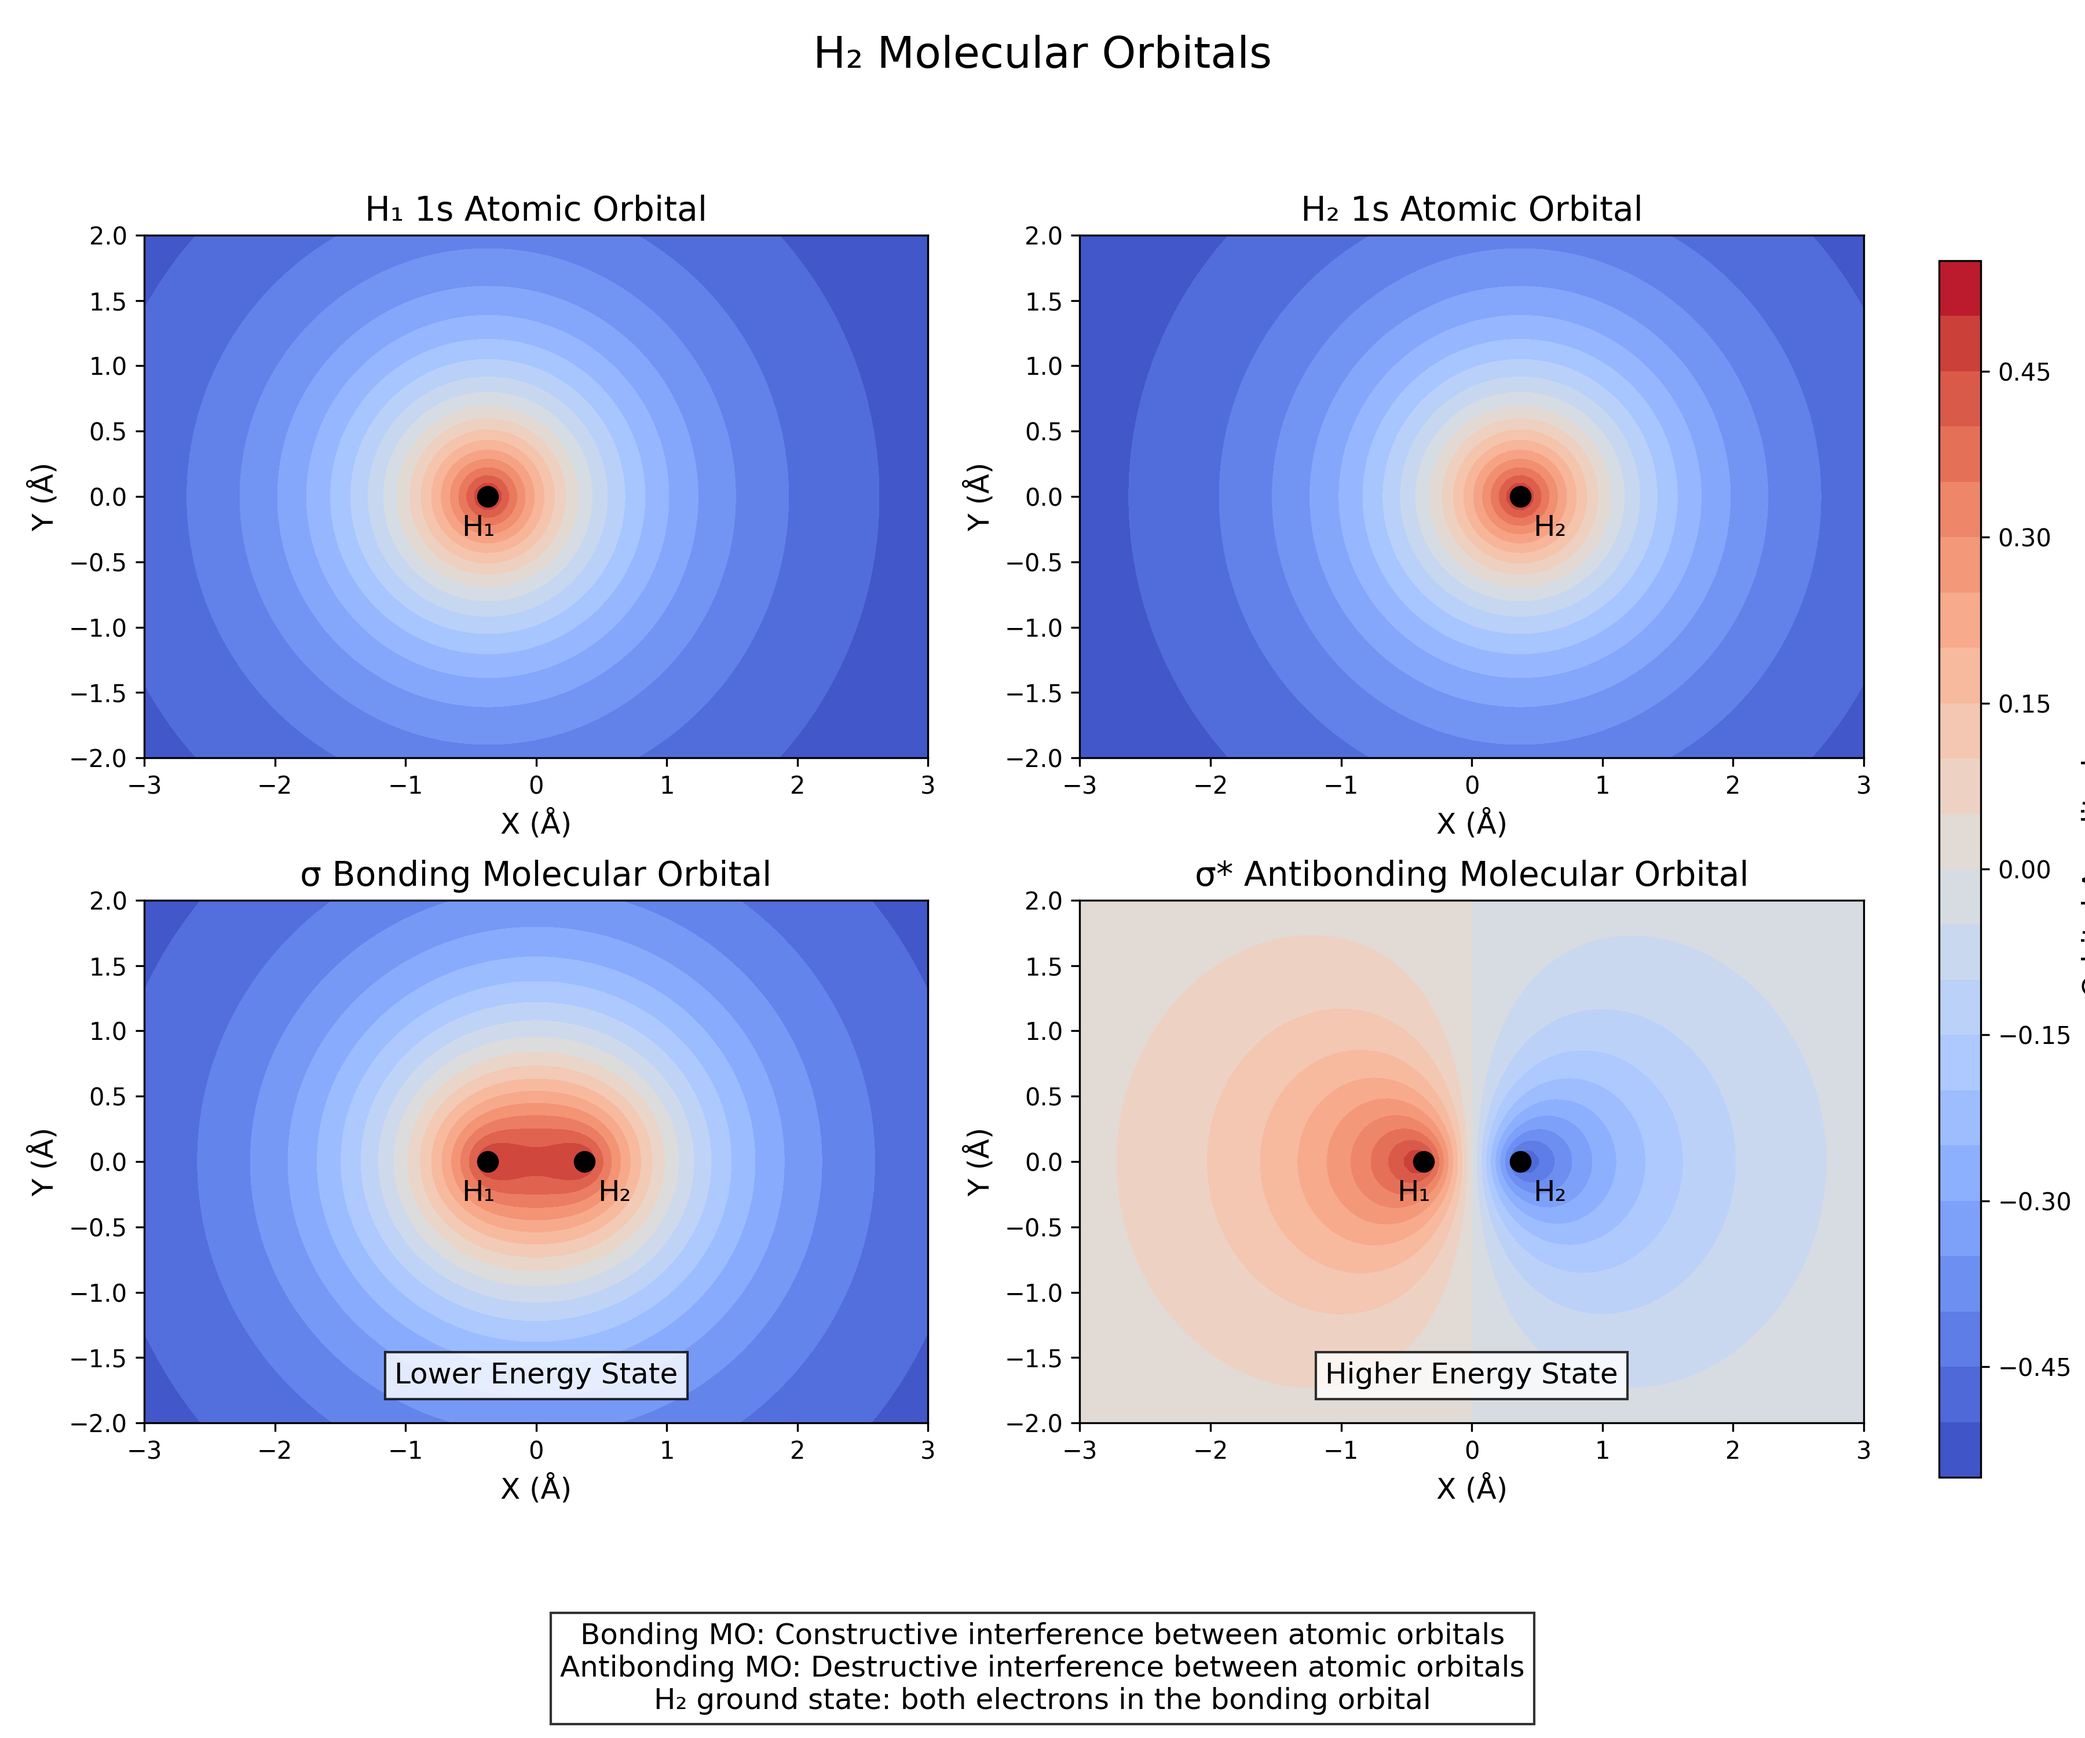
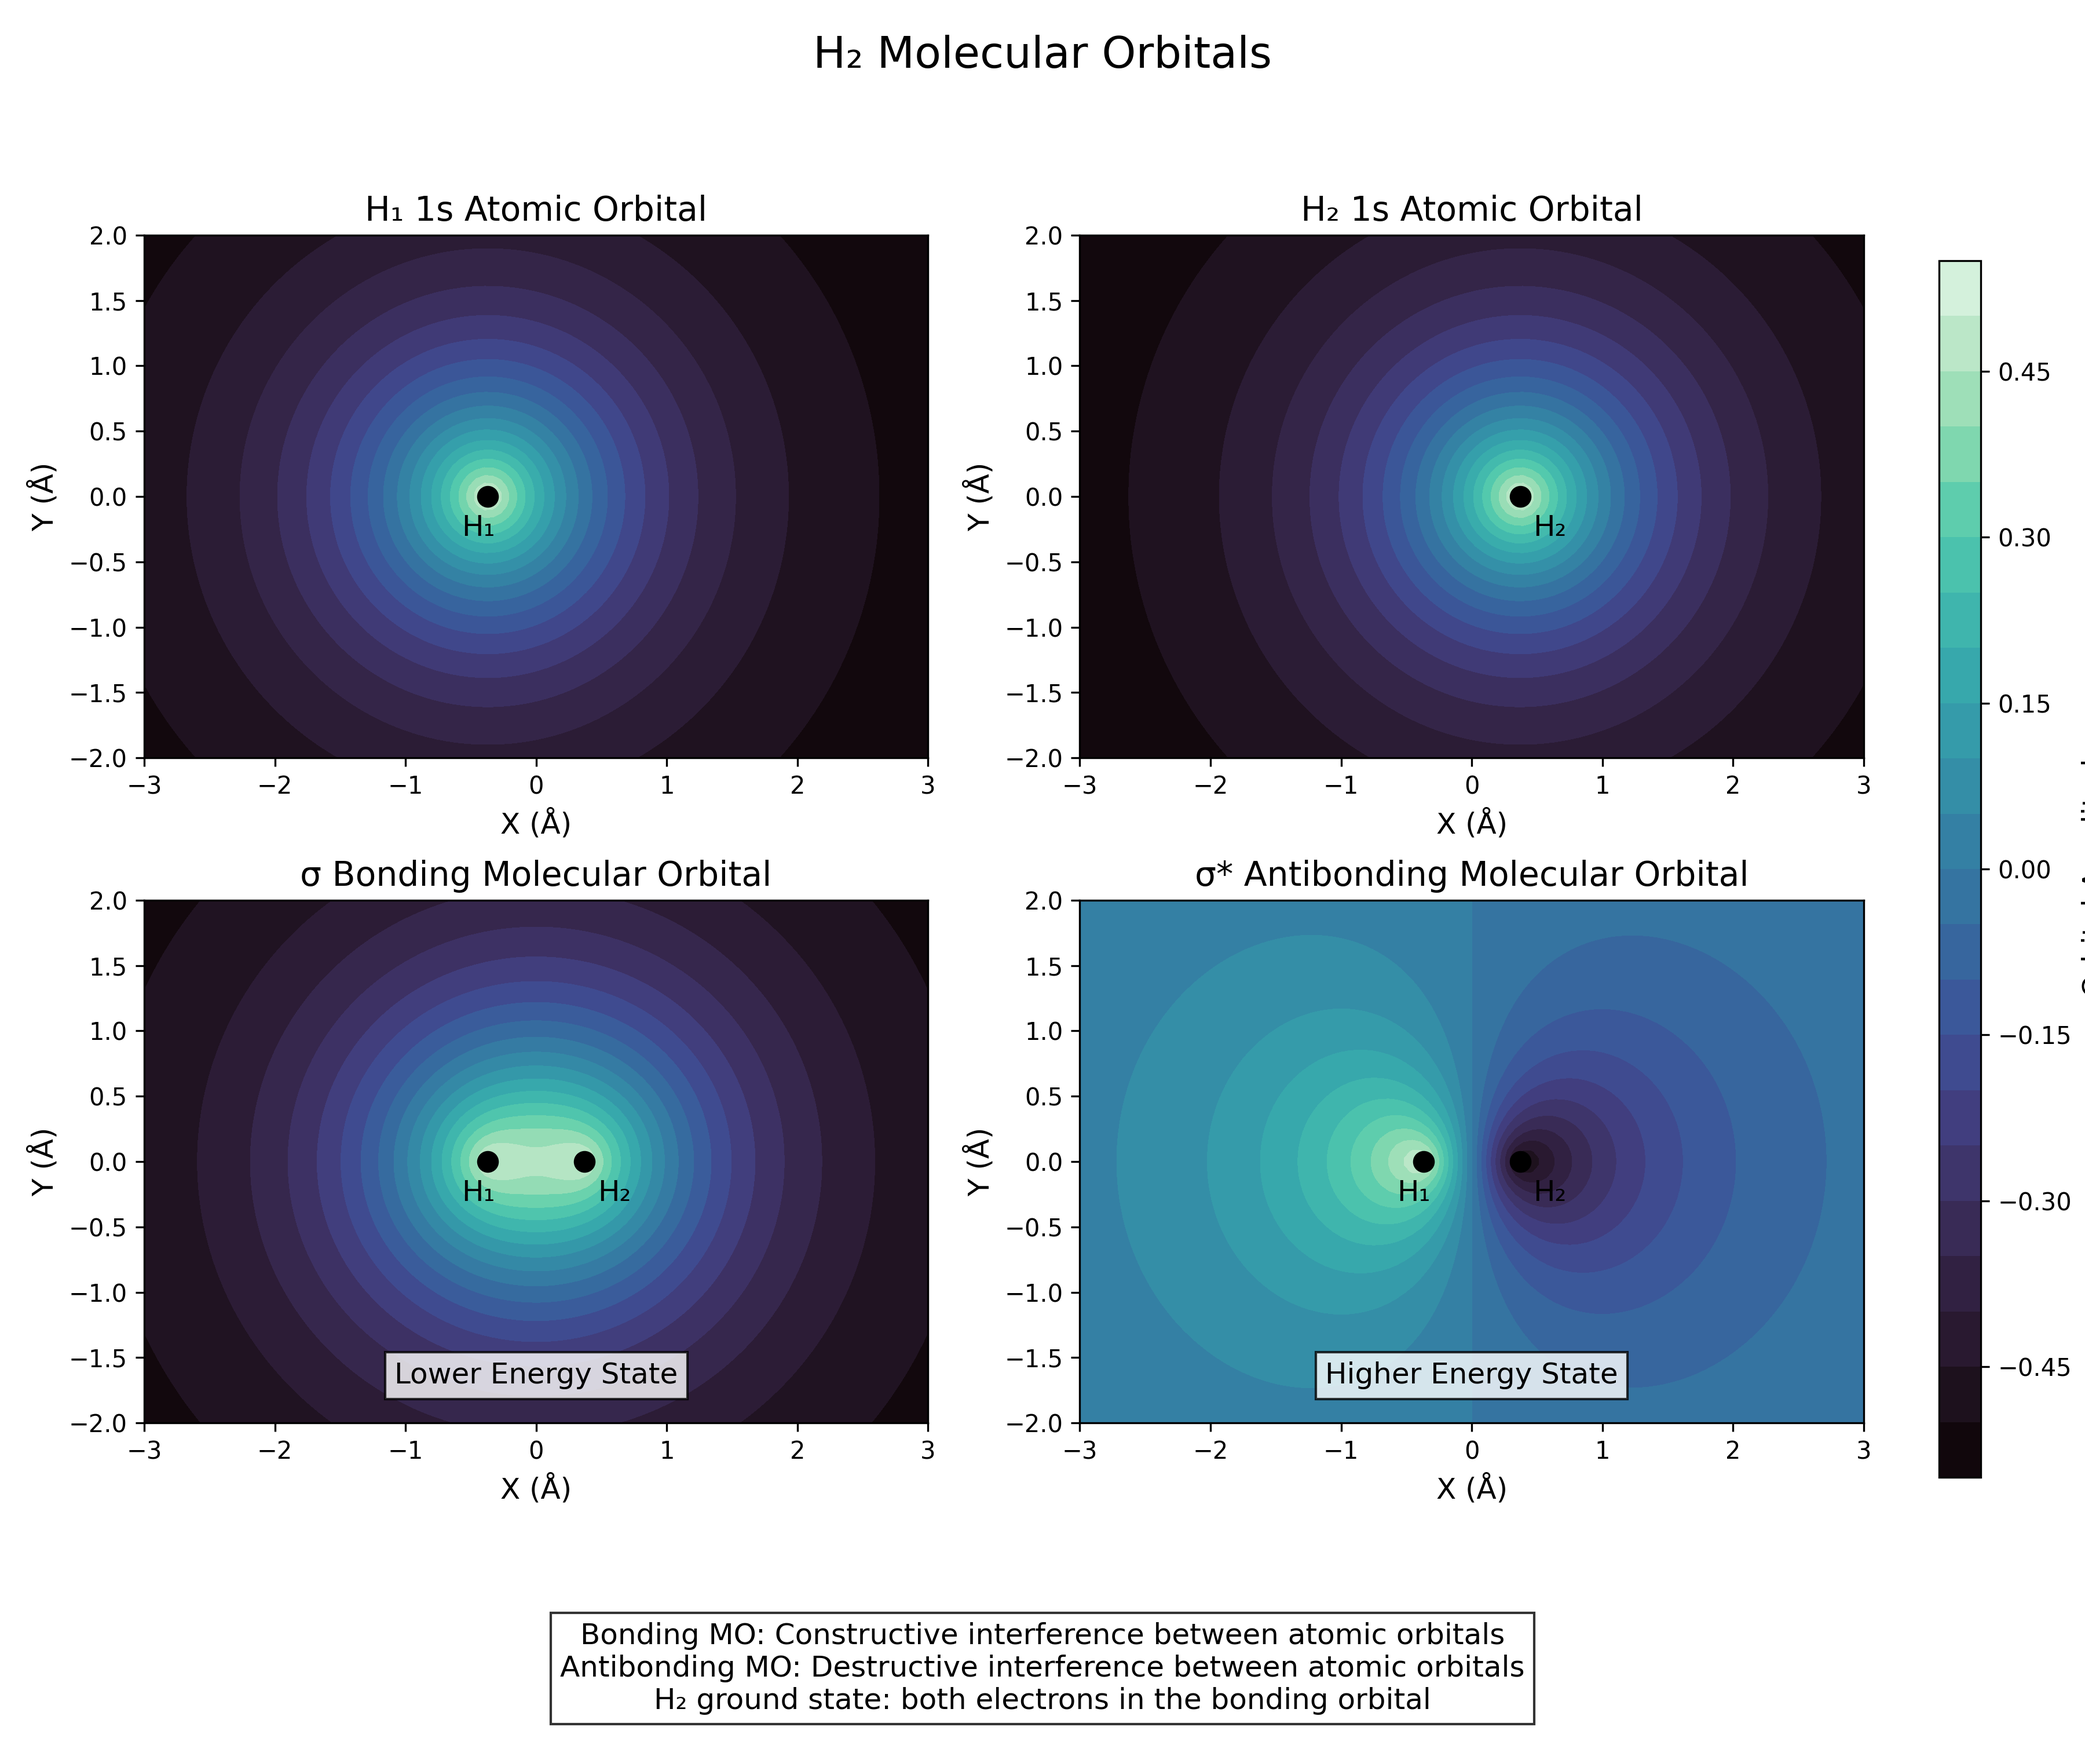
viz: PowerNorm PES, white piecewise paths with arrows; retheme energy curves and MO plots to mako

diff --git a/visualization/heroVisualization.py b/visualization/heroVisualization.py
@@ -20,6 +20,7 @@ import os
 import sys
 from pathlib import Path
 
+import matplotlib.colors as mcolors
 import matplotlib.gridspec as gridspec
 import matplotlib.pyplot as plt
 import numpy as np
@@ -147,10 +148,8 @@ def createHeroVisualization(savePath):
         convEnergy.append(np.array(steps))
 
     # ── Color palettes -- exact match to vqe_energy_curves.py ─────────────────
-    distCmap = sns.cubehelix_palette(start=2, rot=0, dark=0.15, light=0.85, reverse=True, as_cmap=True)
     pesCmap = sns.color_palette("mako", as_cmap=True)
     convPalette = sns.color_palette("mako", n_colors=3)
-    norm = plt.Normalize(distances[0], distances[-1])
 
     # ── Figure ────────────────────────────────────────────────────────────────
     fig = plt.figure(figsize=(16, 7))
@@ -162,26 +161,36 @@ def createHeroVisualization(savePath):
 
     # ── Left: relative PES + per-distance trajectories ────────────────────────
     THETA, DIST = np.meshgrid(thetas, distances)
-    cf = axLeft.contourf(THETA, DIST, relGrid, levels=30, cmap=pesCmap)
+    # PowerNorm(gamma<1) expands the dark/near-zero region so the well bottom
+    # shows color gradation instead of a uniformly black valley.
+    pesNorm = mcolors.PowerNorm(gamma=0.40, vmin=0.0, vmax=float(relGrid.max()))
+    cf = axLeft.contourf(THETA, DIST, relGrid, levels=30, cmap=pesCmap, norm=pesNorm)
     axLeft.contour(THETA, DIST, relGrid, levels=30, colors="k", alpha=0.08, linewidths=0.4)
     cbar = fig.colorbar(cf, ax=axLeft, fraction=0.035, pad=0.02)
     cbar.set_label("E \u2212 E\u2090\u2091\u2099(R)  (Hartree)", fontsize=11)
 
     for tPath, R in trajData:
-        lineColor = distCmap(norm(R))
-        axLeft.plot(tPath, [R] * len(tPath), color=lineColor, linewidth=2.0, alpha=0.85, zorder=3)
-        # Arrow at 60% along the path to show direction of descent
-        arrowIdx = int(0.60 * len(tPath))
-        axLeft.annotate(
-            "",
-            xy=(tPath[arrowIdx + 1], R),
-            xytext=(tPath[arrowIdx], R),
-            arrowprops=dict(arrowstyle="-|>", color=lineColor, lw=1.8),
-            zorder=4,
-        )
-
-    sm = plt.cm.ScalarMappable(cmap=distCmap, norm=norm)
-    sm.set_array([])
+        # White piecewise: each GD step is a discrete segment with a 25% gap.
+        for i in range(len(tPath) - 1):
+            t0, t1 = tPath[i], tPath[i + 1]
+            if abs(t1 - t0) > np.pi:  # skip wrap-around jump
+                continue
+            tEnd = t0 + 0.75 * (t1 - t0)
+            axLeft.plot(
+                [t0, tEnd], [R, R],
+                color="white", linewidth=2.0, alpha=0.90,
+                zorder=3, solid_capstyle="butt",
+            )
+        # White arrow at midpoint to show descent direction
+        midIdx = max(0, len(tPath) // 2 - 1)
+        if midIdx + 1 < len(tPath) and abs(tPath[midIdx + 1] - tPath[midIdx]) <= np.pi:
+            axLeft.annotate(
+                "",
+                xy=(tPath[midIdx + 1], R),
+                xytext=(tPath[midIdx], R),
+                arrowprops=dict(arrowstyle="-|>", color="white", lw=2.0, mutation_scale=14),
+                zorder=5,
+            )
 
     axLeft.set_xlabel("Ansatz Parameter \u03b8", fontsize=12)
     axLeft.set_ylabel("Bond Distance (\u00c5)", fontsize=12)

diff --git a/visualization/h2_molecular_orbitals.py b/visualization/h2_molecular_orbitals.py
@@ -8,6 +8,7 @@ import os
 
 import matplotlib.pyplot as plt
 import numpy as np
+import seaborn as sns  # noqa: F401  # registers mako colormap with matplotlib
 
 
 def create_molecular_orbital_visualization(save_path):
@@ -49,7 +50,7 @@ def create_molecular_orbital_visualization(save_path):
     # Plot 1s orbital of first H atom
     ax = axes[0, 0]
     ax.set_title("H₁ 1s Atomic Orbital", fontsize=14)
-    contour = ax.contourf(X, Y, h1_1s, 20, cmap="coolwarm")
+    contour = ax.contourf(X, Y, h1_1s, 20, cmap="mako")
     ax.set_xlabel("X (Å)", fontsize=12)
     ax.set_ylabel("Y (Å)", fontsize=12)
     ax.set_aspect("equal")
@@ -59,7 +60,7 @@ def create_molecular_orbital_visualization(save_path):
     # Plot 1s orbital of second H atom
     ax = axes[0, 1]
     ax.set_title("H₂ 1s Atomic Orbital", fontsize=14)
-    contour = ax.contourf(X, Y, h2_1s, 20, cmap="coolwarm")
+    contour = ax.contourf(X, Y, h2_1s, 20, cmap="mako")
     ax.set_xlabel("X (Å)", fontsize=12)
     ax.set_ylabel("Y (Å)", fontsize=12)
     ax.set_aspect("equal")
@@ -69,7 +70,7 @@ def create_molecular_orbital_visualization(save_path):
     # Plot bonding molecular orbital
     ax = axes[1, 0]
     ax.set_title("σ Bonding Molecular Orbital", fontsize=14)
-    contour = ax.contourf(X, Y, bonding_mo, 20, cmap="coolwarm")
+    contour = ax.contourf(X, Y, bonding_mo, 20, cmap="mako")
     ax.set_xlabel("X (Å)", fontsize=12)
     ax.set_ylabel("Y (Å)", fontsize=12)
     ax.set_aspect("equal")
@@ -84,7 +85,7 @@ def create_molecular_orbital_visualization(save_path):
     # Plot antibonding molecular orbital
     ax = axes[1, 1]
     ax.set_title("σ* Antibonding Molecular Orbital", fontsize=14)
-    contour = ax.contourf(X, Y, antibonding_mo, 20, cmap="coolwarm")
+    contour = ax.contourf(X, Y, antibonding_mo, 20, cmap="mako")
     ax.set_xlabel("X (Å)", fontsize=12)
     ax.set_ylabel("Y (Å)", fontsize=12)
     ax.set_aspect("equal")

diff --git a/visualization/vqe_energy_curves.py b/visualization/vqe_energy_curves.py
@@ -115,8 +115,8 @@ def create_vqe_energy_curves_visualization(save_path):
     ax1.grid(True, alpha=0.3)
 
     # Right panel: dissociation curves
-    ax2.plot(distances, exact_energies, "k-", linewidth=2, label="Exact (diag)")
-    ax2.plot(distances, vqe_energies, "o", color=iter_cmap(0.5), markersize=5, label="VQE minimum")
+    ax2.plot(distances, exact_energies, color=iter_cmap(0.15), linewidth=2, label="Exact (diag)")
+    ax2.plot(distances, vqe_energies, "o", color=iter_cmap(0.6), markersize=5, label="VQE minimum")
 
     min_idx = int(np.argmin(exact_energies))
     ax2.plot(

diff --git a/README.md b/README.md
@@ -163,19 +163,23 @@ Ground state energy at equilibrium: **-1.137 Ha** (within $10^{-6}$ Ha of exact 
 
 Bonding and antibonding molecular orbitals of H₂, computed from one-electron integrals in the STO-3G basis.
 
-![H2 Molecular Orbitals](https://github.com/IsolatedSingularity/quantum-chemistry-eigensolver/blob/main/visualization/h2_molecular_orbitals.png?raw=true)
+<p align="center">
+  <img src="visualization/h2_molecular_orbitals.png" alt="H2 Molecular Orbitals" width="800">
+</p>
 
 Bond-length sweep from 0.3 to 1.95 Å showing the H₂ wavefunction transitioning from a compact bonding state to separated atoms.
 
-![H2 Dissociation Animation](https://github.com/IsolatedSingularity/quantum-chemistry-eigensolver/blob/main/visualization/h2_dissociation.gif?raw=true)
+<p align="center">
+  <img src="visualization/h2_dissociation.gif" alt="H2 Dissociation Animation" width="700">
+</p>
 
-VQE energy landscape across 8 sampled bond distances (left) and the full dissociation curve compared against exact diagonalization (right).
+VQE energy landscape across 8 sampled bond distances (left) and the full dissociation curve compared against exact diagonalization (right), colored with mako/cubehelix palette.
 
 <p align="center">
   <img src="visualization/vqe_energy_curves.png" alt="VQE Energy Optimization Curves" width="800">
 </p>
 
-VQE potential energy surface showing E(theta, R) - E_min(R) across all 34 bond distances. Gradient-descent trajectories (parameter-shift rule) are shown at 8 sampled geometries: paths are short near equilibrium where the well is deep and converge slowly toward dissociation where coupling weakens. Right panel: energy error on a log scale at three geometries (compressed, equilibrium, stretched).
+VQE potential energy surface showing E(theta, R) - E_min(R) across all 34 bond distances. White piecewise paths show discrete gradient-descent steps at 8 sampled geometries; arrows indicate descent direction. Right panel: energy error on a log scale at three geometries (compressed, equilibrium, stretched).
 
 <p align="center">
   <img src="visualization/vqe_hero.png" alt="VQE Potential Energy Surface with optimization trajectories" width="900">
